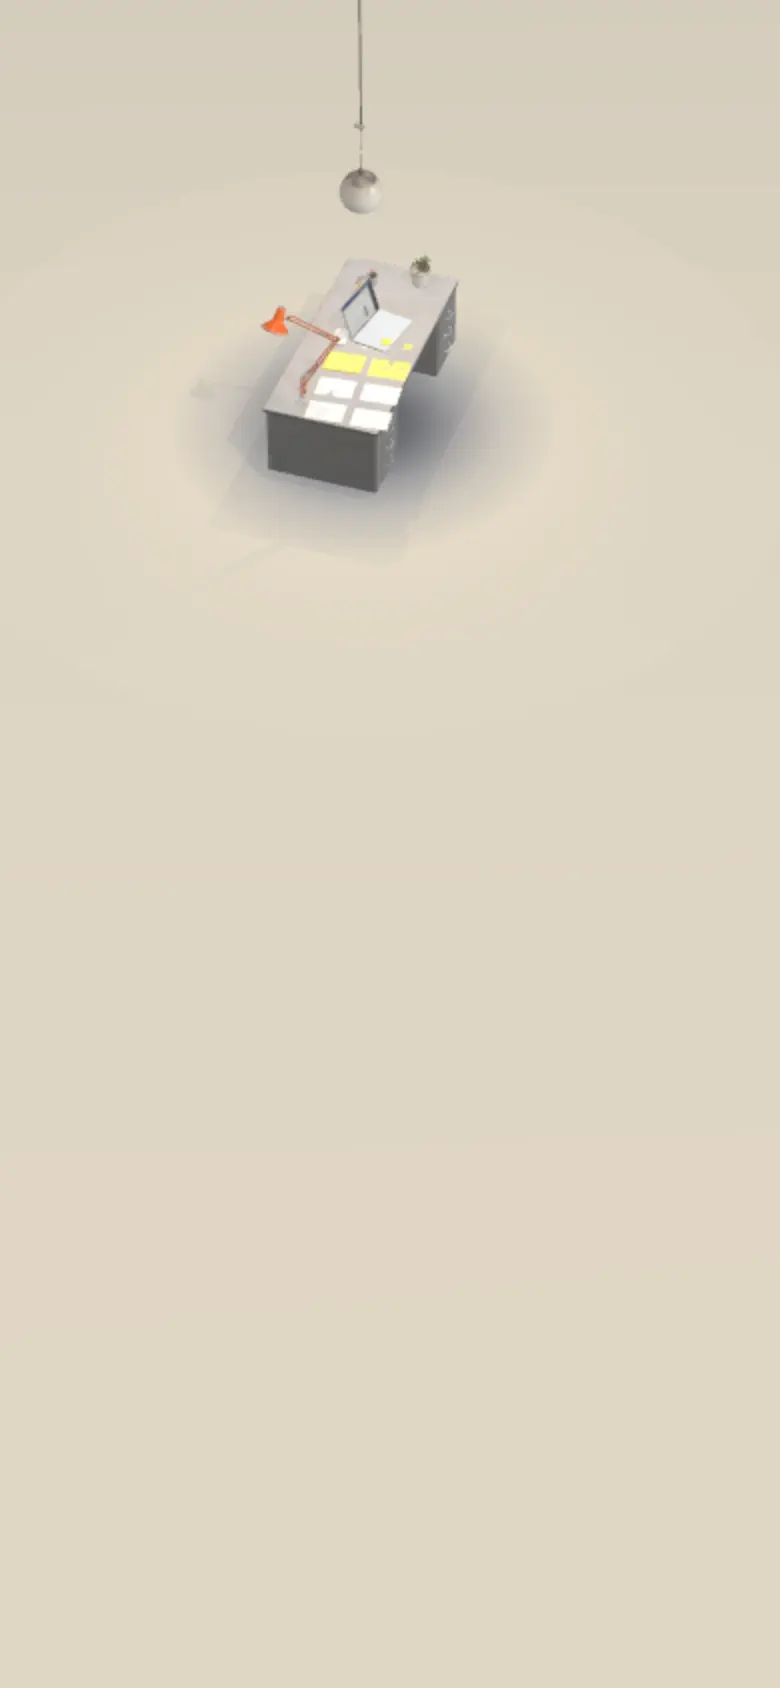
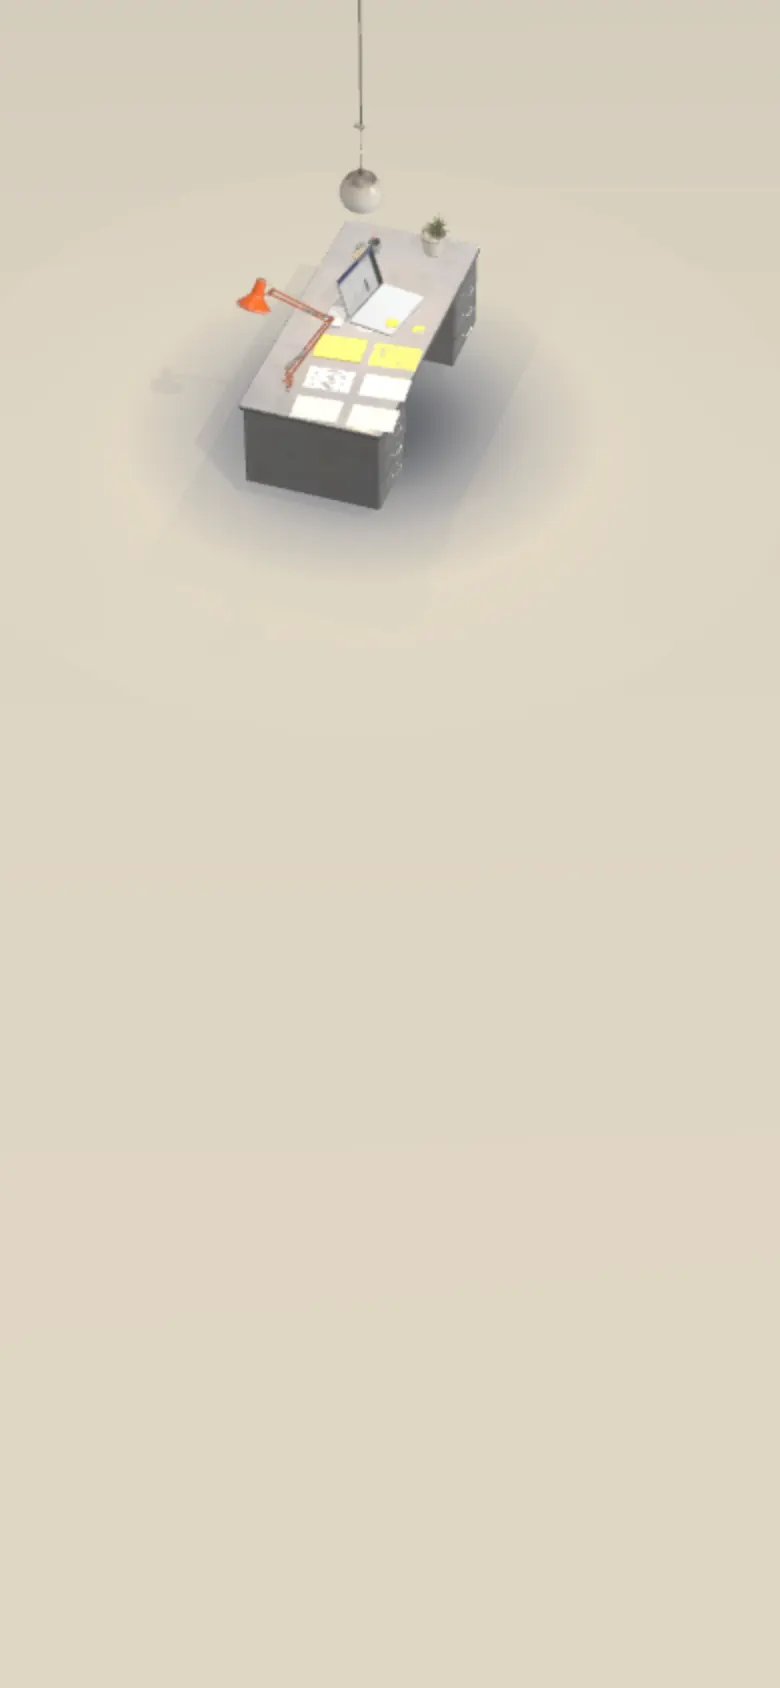
Opening view: back to full size; only the restaurant and learning systems are smaller

Changed region(s): [[0.2462, 0.1232, 0.6769, 0.3389]]

diff --git a/src/three/stations.ts b/src/three/stations.ts
@@ -108,6 +108,7 @@ export const STATIONS: Station[] = [
       { dev: 'kiosk', x: -0.98, z: -0.15, ry: 0.4 },
     ],
     shot: { az: -0.25, dist: 7, height: 2.6, look: 0.95, layout: 't', shift: [0, -0.16] },
+    heroScale: 0.82,
   },
   {
     // Gym: an adjustable bench, a dumbbell rack, competition kettlebells, a medicine ball, a yoga mat, and the check-in kiosk
@@ -152,7 +153,7 @@ export const STATIONS: Station[] = [
       { file: 'binder_notebook', on: 'desk', x: 0.12, z: 0.18, ry: 0.15, s: 0.55 },
     ],
     shot: { az: 0.3, dist: 10.5, height: 4.2, look: 0.8, layout: 'b' },
-    heroScale: 0.72,
+    heroScale: 0.6,
   },
   {
     // Your next system: a blueprint that keeps building itself

diff --git a/src/three/Showroom.tsx b/src/three/Showroom.tsx
@@ -216,7 +216,7 @@ const ease = (t: number) => t * t * (3 - 2 * t)
 /** Seconds a system takes to gather (or scatter) in the opening view. */
 const SWAP_S = 1.5
 /** How much bigger the single system is in the opening view than at its stop. */
-const HERO_SCALE = 2.2 // size of the system shown alone in the opening view
+const HERO_SCALE = 2.7 // size of the system shown alone in the opening view
 
 /* ---------- the lamp that hangs over the gallery and follows the visitor ---------- */
 function useLamp(scenes: Record<string, THREE.Object3D>) {
